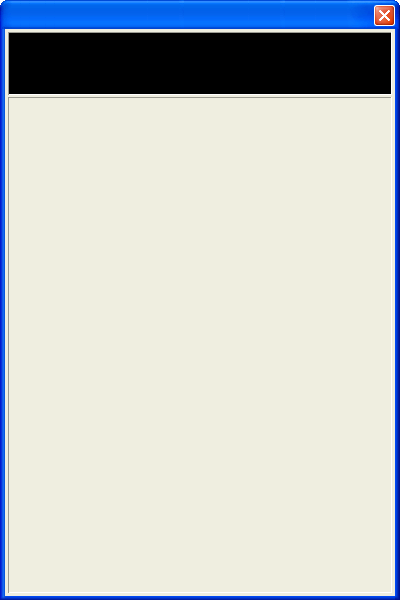
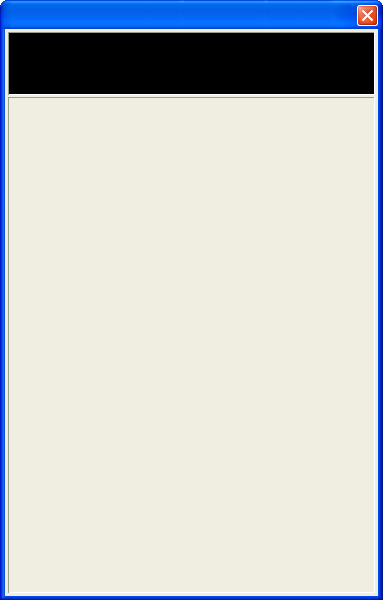
feat:

Changed region(s): [[0.9191, 0.0, 1.0, 0.99], [0.0, 0.06, 0.0287, 0.99]]

diff --git a/Dialog/UpgradeDialog.cpp b/Dialog/UpgradeDialog.cpp
@@ -62,7 +62,7 @@ void CUpgradeDialog::OnGdiInitialize()
 	::SetLayeredWindowAttributes(m_hWnd, RGB(255, 0, 255), 0, LWA_COLORKEY);
 
 	// ìœˆë„ìš° í¬ê¸° ì„¤ì • (400x600 - 2ì—´ ë ˆì´ì•„ì›ƒì„ ìœ„í•´ ë„ˆë¹„ í™•ìž¥)
-	SetWindowPos(nullptr, 0, 0, 400, 600, SWP_NOMOVE | SWP_NOZORDER | SWP_FRAMECHANGED);
+	SetWindowPos(nullptr, 0, 0, 383, 600, SWP_NOMOVE | SWP_NOZORDER | SWP_FRAMECHANGED);
 	CenterWindow();
 
 	// GDI+ ë°°ê²½ ì´ë¯¸ì§€ ë¡œë“œ
@@ -81,7 +81,7 @@ void CUpgradeDialog::OnGdiInitialize()
 	const int yMargin = 5;
 	const int xMargin = 5;
 	
-	CRect btnRect(400 - btnWidth - xMargin, yMargin, 400 - xMargin, yMargin + btnHeight);
+	CRect btnRect(383 - btnWidth - xMargin, yMargin, 383 - xMargin, yMargin + btnHeight);
 	m_btnClose.Create(L"", btnRect, this, 4000);
 	m_btnClose.SetAtlasImage(_T("Shared\\X.png"), btnWidth, btnHeight);
 
@@ -90,7 +90,7 @@ void CUpgradeDialog::OnGdiInitialize()
 	const int itemBtnHeight = 48;
 	const int startX = 11;
 	const int startY = 100;
-	const int spacingX = 189;  // ë²„íŠ¼ ë„ˆë¹„ + ê°„ê²©
+	const int spacingX = 183;  // ë²„íŠ¼ ë„ˆë¹„ + ê°„ê²©
 	const int spacingY = 48;
 	const int columns = 2;
 
@@ -111,7 +111,7 @@ void CUpgradeDialog::OnGdiInitialize()
 			pBtn->Create(L"", btnRect, this, 3000 + i);
 			
 			// 2-state ì•„í‹€ë¼ìŠ¤ ì„¤ì •
-			pBtn->SetAtlasImage(_T("Upgrade\\Button.png"), itemBtnWidth, itemBtnHeight);
+			pBtn->SetAtlasImage(_T("Shop\\Button.png"), itemBtnWidth, itemBtnHeight);
 
 			// ì•„ì´í…œ ì´ë¦„ ì„¤ì •
 			const SpecialUpgradeData* pUpgrade = m_pDoc->GetGameCore().GetSpecialUpgrade(i);
@@ -155,7 +155,7 @@ void CUpgradeDialog::OnGdiInitialize()
 	m_tooltipPrice.SetShadowColor(180, 0, 0, 0);
 
 	// ê³ ì • í¬ê¸° ë²„í¼ ìƒì„± (400x600)
-	InitializeRenderBuffer(400, 600);
+	InitializeRenderBuffer(383, 600);
 }
 
 
@@ -257,7 +257,7 @@ void CUpgradeDialog::OnRenderContent(Gdiplus::Graphics& graphics, float deltaTim
 	// ë°°ê²½ ì´ë¯¸ì§€ ê·¸ë¦¬ê¸°
 	if (m_pBackgroundImage && m_pBackgroundImage->GetLastStatus() == Gdiplus::Ok)
 	{
-		graphics.DrawImage(m_pBackgroundImage, 0, 0, 400, 600);
+		graphics.DrawImage(m_pBackgroundImage, 0, 0, 383, 600);
 	}
 
 
